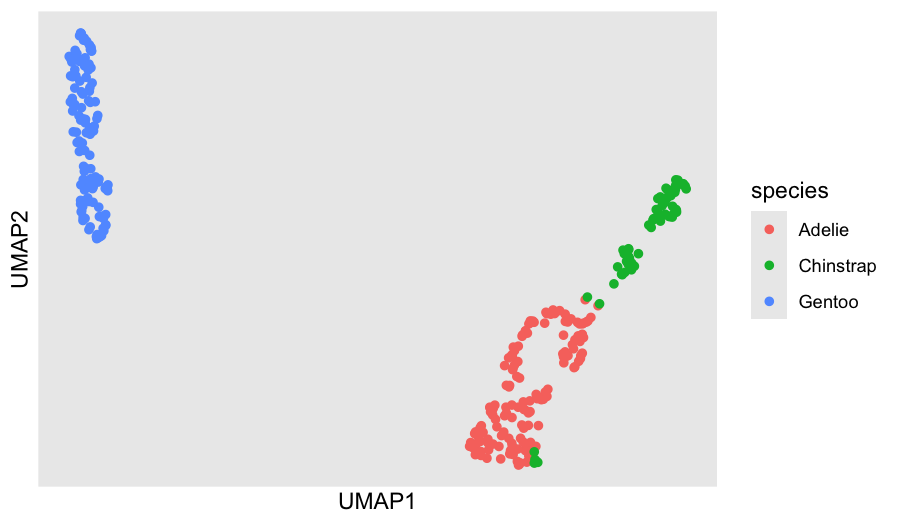
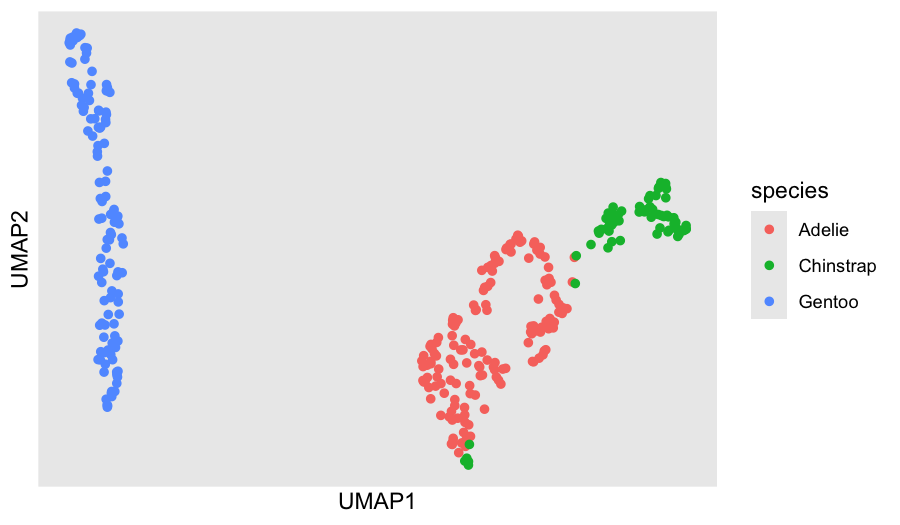
Replace the iris dataset with palmerpenguins
The examples, README and the quality test use palmerpenguins::penguins,
like the vignette; the examples only run when it is installed. The
offline install check on CI uses mtcars. The benchmarks no longer
include iris, and its rows are removed from the results (the other
measurements are unaffected).

Changed region(s): [[0.4667, 0.3352, 0.7778, 0.9143], [0.0622, 0.061, 0.1556, 0.7924]]

diff --git a/dev/PLAN.md b/dev/PLAN.md
@@ -147,7 +147,7 @@ ggplot(penguins, aes(colour = sex)) + geom_umap(scale = TRUE) + facet_wrap(~spec
 ggplot(docs, aes(colour = topic)) + geom_umap(features = starts_with("tfidf_"), metric = "cosine")
 
 # 6. Outside ggplot2
-emb <- umap_embed(iris, Sepal.Length:Petal.Width, seed = 42)
+emb <- umap_embed(penguins, bill_length_mm:body_mass_g, seed = 42)
 ```
 
 ---
@@ -239,7 +239,7 @@ error mapping.
 | `test-cache.R` | second build hits the cache (instrumented counter), cache key changes with data/params, `umap_cache_clear()`, multi-layer plots share layout |
 | `test-params.R` | every metric and every init runs; `flavour` 0.5/0.6; each `optimizer`; `min_dist` larger → larger mean pairwise distance (monotonic sanity) |
 | `test-edge-cases.R` | n = 2, 3, n ≈ n_neighbors, duplicate rows, constant columns, p = 1, very large magnitudes (f32 overflow → error), single-row facet panels |
-| `test-quality.R` | *Correctness, not just "it runs":* on 3–5 well-separated blobs, kNN-classifier accuracy in the embedding ≥ 0.95 and trustworthiness (k = 15) ≥ 0.9; iris trustworthiness close to `uwot` (`skip_if_not_installed("uwot")`) |
+| `test-quality.R` | *Correctness, not just "it runs":* on 3–5 well-separated blobs, kNN-classifier accuracy in the embedding ≥ 0.95 and trustworthiness (k = 15) ≥ 0.9; penguins trustworthiness close to `uwot` (`skip_if_not_installed("uwot")`) |
 | `test-visual.R` | `vdiffr::expect_doppelganger()` for a handful of plots (seeded, 1 thread). `skip_on_cran()` because floating-point output may differ across platforms |
 | `test-interrupt.R` / manual | interrupt and progress behaviour (partly manual, documented) |
 
@@ -270,7 +270,7 @@ default epochs, spectral init where available, and an equal thread count.
 ### 6.2 Datasets
 
 - Synthetic Gaussian blobs: n ∈ {1k, 5k, 10k, 50k, 100k, 250k}, p ∈ {10, 50, 300}, for scaling curves.
-- Real: iris/penguins (tiny), MNIST 70k × 784 and Fashion-MNIST (downloaded once, cached,
+- Real: penguins (tiny), MNIST 70k × 784 and Fashion-MNIST (downloaded once, cached,
   checksummed), and a scRNA-seq PCA matrix (~50 dims; typical bio use case).
 
 ### 6.3 Measurements

diff --git a/README.md b/README.md
@@ -73,14 +73,15 @@ ggplot(cars, aes(label = model, colour = factor(cyl))) +
 plot:
 
 ``` r
-umap_embed(iris, Sepal.Length:Petal.Width, seed = 1) |> head()
-#>      UMAP1    UMAP2  knn_dist
-#> 1 14.26603 5.340948 0.2206497
-#> 2 16.21539 5.682025 0.2788145
-#> 3 15.77085 6.046715 0.2883166
-#> 4 16.04808 5.891865 0.2761466
-#> 5 14.19883 5.123796 0.2452016
-#> 6 13.02840 5.360260 0.4382381
+penguins <- na.omit(palmerpenguins::penguins)
+umap_embed(penguins, bill_length_mm:body_mass_g, scale = TRUE, seed = 1) |> head()
+#>       UMAP1    UMAP2  knn_dist
+#> 1 10.573380 4.556105 0.4842742
+#> 2  9.940044 5.322702 0.4916678
+#> 3  9.473128 5.615625 0.5714622
+#> 4  9.850804 3.574307 0.5629448
+#> 5 10.979073 2.605547 0.6880632
+#> 6 10.053648 5.051975 0.4997849
 ```
 
 See `vignette("ggumap")` for more.
